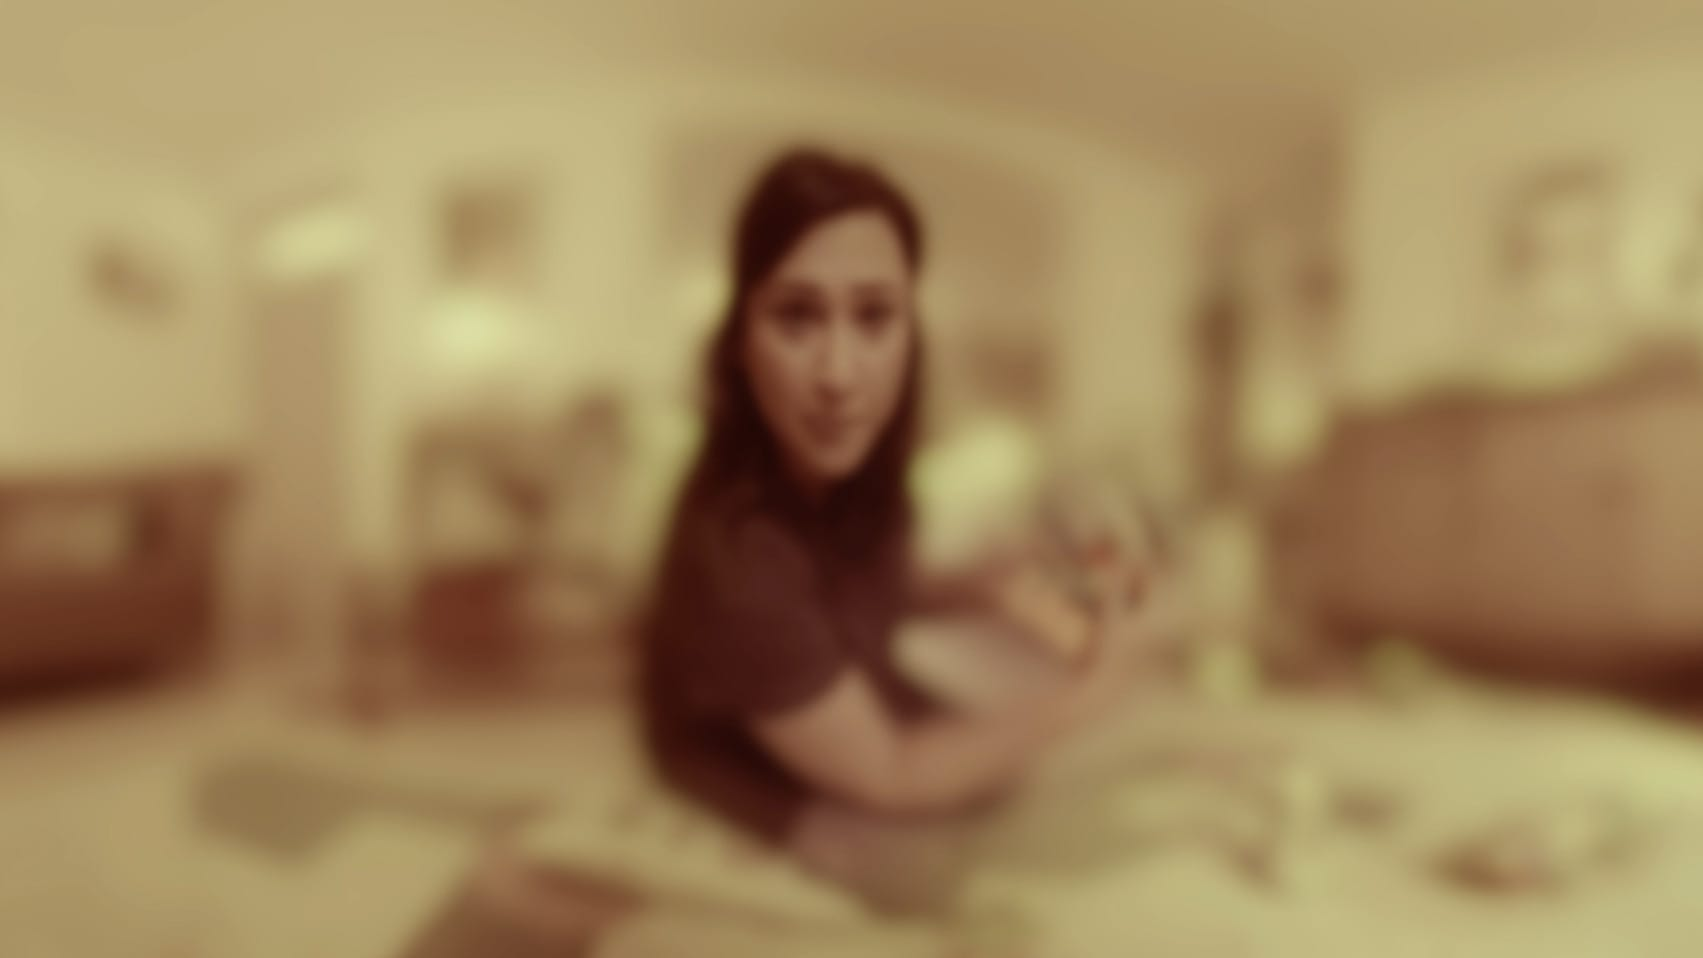
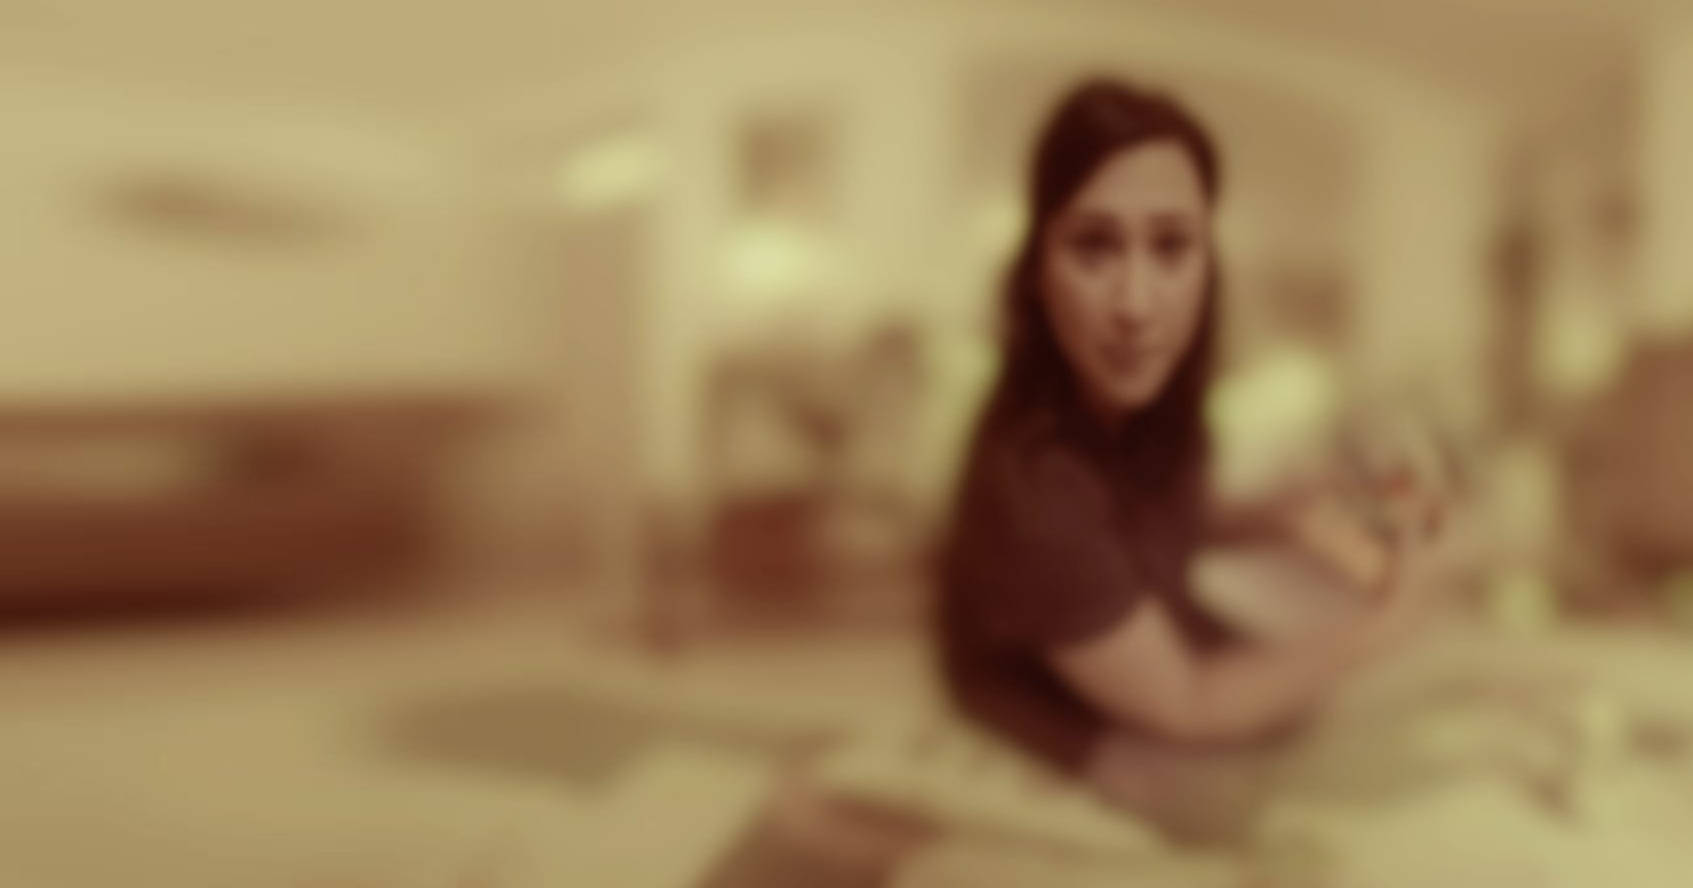
updated images

diff --git a/src/templates/main.html b/src/templates/main.html
@@ -69,6 +69,15 @@
         </div>
     </div>
 
+        <div class="gvr-lightbox__container">
+        <div class="gvr-lightbox__video">
+            <div class="gvr-video__container">
+                <iframe allowfullscreen="1" frameborder="0"></iframe>
+            </div>
+            <div class="gvr-lightbox__close"></div>
+        </div>
+    </div>
+
 </div>
 
 
@@ -84,7 +93,7 @@
                 After years of record temperatures, the Arctic is melting. The Northwest passage had an ice-free summer in 2016, allowing cruise ships into one of the world’s most remote places. Join our environmentally friendly Arctic tour, and witness the consequences of human behaviour.
             </p>
             
-            <button class="gvr-vr__trailerbtn" data-url="www.theguardian.com/environment/ng-interactive/2016/dec/22/arctic-360-take-a-tour-without-doing-damage">Watch online</button>
+            <button class="gvr-vr__trailerbtn" data-video="https://www.youtube.com/embed/ncEj8rZaQs8?autoplay=1&controls=1&modestbranding=1&enablejsapi=1&color=white&showinfo=0&theme=dark&autohide=1&rel=0&iv_load_policy=3&widgetid=1">Watch online</button>
 
             <div class="gvr-vr__extras">
                 <div class="gvr-vr__extras__left">
@@ -108,6 +117,79 @@
                     </ul>
                 </div>
             </div>
+        </div>
+    </div>
+
+
+            <div class="gvr-lightbox__container">
+        <div class="gvr-lightbox__video">
+            <div class="gvr-video__container">
+                <iframe allowfullscreen="1" frameborder="0"></iframe>
+            </div>
+            <div class="gvr-lightbox__close"></div>
+        </div>
+    </div>
+
+</div>
+
+
+
+<div class="gvr-strip gvr-strip--project gvr-strip--6x9" id="goto-6x9">
+    <div class="gvr-content gvr-vr">
+        <div class="gvr-project--container">
+            <h2 class="gvr-vr__title">6&times;9</h2>
+            <h3 class="gvr-vr__subtitle">
+                A virtual experience of solitary confinement
+            </h3>
+            <button class="gvr-vr__expandbtn">Explore</button>
+            <p class="gvr-vr__description">
+                More than 80,000 people are in solitary confinement in the US. They spend 22 to 24 hours a day in their cells, with little to no human contact for days - or even decades. We invite you into this world to hear the stories and experience the psychological damage that can happen during extreme isolation.
+            </p>
+            <button class="gvr-vr__trailerbtn" data-video="https://www.youtube.com/embed/hwbJLlbeAS0?autoplay=1&controls=1&modestbranding=1&enablejsapi=1&color=white&showinfo=0&theme=dark&autohide=1&rel=0&iv_load_policy=3&widgetid=1">Video trailer</button>
+            <div class="gvr-vr__extras">
+                <div class="gvr-vr__extras__left">
+                    <h2>Further material</h2>
+                    <ul class="gvr-reading">
+                        <li class="gvr-reading__item">
+                            <a href="https://www.theguardian.com/world/ng-interactive/2016/apr/27/you-start-seeing-figures-in-the-paint-chips-recollections-of-life-in-solitary-confinement">Six men and one woman share their experiences of solitary confinement</a>
+                        </li>
+                        <li class="gvr-reading__item">
+                            <a href="https://www.theguardian.com/world/2016/apr/27/what-is-solitary-confinement">Solitary confinement: the facts</a>
+                        </li>
+                        <li class="gvr-reading__item">
+                            <a href="https://www.theguardian.com/world/audio/2016/apr/27/solitary-confinement-in-the-us-audio-documentary">Podcast: 6x9 - a story of solitary confinement by Gary Younge</a>
+                        </li>
+                        <li class="gvr-reading__item">
+                            <a href="https://www.theguardian.com/world/2016/apr/29/albert-woodfox-43-years-solitary-confinement-wish-i-was-back">43 years in solitary: 'There are moments I wish I was back there’</a>
+                        </li>
+                        <li class="gvr-reading__item">
+                            <a href="https://www.theguardian.com/us-news/audio/2016/apr/28/solitary-confinement-6x9-the-psychologists-the-story-podcast">Podcast: Psychologists discuss solitary confinement</a>
+                        </li>
+                        <li class="gvr-reading__item">
+                            <a href="https://www.theguardian.com/commentisfree/video/2016/may/04/i-was-alone-in-a-room-for-three-years-solitary-confinement-is-torture-video">Video: I was alone in a room for three years. Solitary confinement is torture</a>
+                        </li>
+                    </ul>
+                </div>
+                <div class="gvr-vr__extras__right">
+                    <h2>Download the app</h2>
+                    <ul class="gvr-reading">
+                        <li class="gvr-reading__item">
+                            <a href="https://play.google.com/store/apps/details?id=com.guardian.gvr">Download for Daydream</a>
+                        </li>
+                        <li class="gvr-reading__item">
+                            <a href="https://www.theguardian.com/world/ng-interactive/2016/apr/27/6x9-a-virtual-experience-of-solitary-confinement">Download for iOS, Android or Gear VR</a>
+                        </li>
+                    </ul>
+                </div>
+            </div>
+        </div>
+    </div>
+    <div class="gvr-lightbox__container">
+        <div class="gvr-lightbox__video">
+            <div class="gvr-video__container">
+                <iframe allowfullscreen="1" frameborder="0"></iframe>
+            </div>
+            <div class="gvr-lightbox__close"></div>
         </div>
     </div>
 </div>
@@ -170,65 +252,9 @@
 </div>
 
 
-<div class="gvr-strip gvr-strip--project gvr-strip--6x9" id="goto-6x9">
-    <div class="gvr-content gvr-vr">
-        <div class="gvr-project--container">
-            <h2 class="gvr-vr__title">6&times;9</h2>
-            <h3 class="gvr-vr__subtitle">
-                A virtual experience of solitary confinement
-            </h3>
-            <button class="gvr-vr__expandbtn">Explore</button>
-            <p class="gvr-vr__description">
-                More than 80,000 people are in solitary confinement in the US. They spend 22 to 24 hours a day in their cells, with little to no human contact for days - or even decades. We invite you into this world to hear the stories and experience the psychological damage that can happen during extreme isolation.
-            </p>
-            <button class="gvr-vr__trailerbtn" data-video="https://www.youtube.com/embed/hwbJLlbeAS0?autoplay=1&controls=1&modestbranding=1&enablejsapi=1&color=white&showinfo=0&theme=dark&autohide=1&rel=0&iv_load_policy=3&widgetid=1">Video trailer</button>
-            <div class="gvr-vr__extras">
-                <div class="gvr-vr__extras__left">
-                    <h2>Further material</h2>
-                    <ul class="gvr-reading">
-                        <li class="gvr-reading__item">
-                            <a href="https://www.theguardian.com/world/ng-interactive/2016/apr/27/you-start-seeing-figures-in-the-paint-chips-recollections-of-life-in-solitary-confinement">Six men and one woman share their experiences of solitary confinement</a>
-                        </li>
-                        <li class="gvr-reading__item">
-                            <a href="https://www.theguardian.com/world/2016/apr/27/what-is-solitary-confinement">Solitary confinement: the facts</a>
-                        </li>
-                        <li class="gvr-reading__item">
-                            <a href="https://www.theguardian.com/world/audio/2016/apr/27/solitary-confinement-in-the-us-audio-documentary">Podcast: 6x9 - a story of solitary confinement by Gary Younge</a>
-                        </li>
-                        <li class="gvr-reading__item">
-                            <a href="https://www.theguardian.com/world/2016/apr/29/albert-woodfox-43-years-solitary-confinement-wish-i-was-back">43 years in solitary: 'There are moments I wish I was back there’</a>
-                        </li>
-                        <li class="gvr-reading__item">
-                            <a href="https://www.theguardian.com/us-news/audio/2016/apr/28/solitary-confinement-6x9-the-psychologists-the-story-podcast">Podcast: Psychologists discuss solitary confinement</a>
-                        </li>
-                        <li class="gvr-reading__item">
-                            <a href="https://www.theguardian.com/commentisfree/video/2016/may/04/i-was-alone-in-a-room-for-three-years-solitary-confinement-is-torture-video">Video: I was alone in a room for three years. Solitary confinement is torture</a>
-                        </li>
-                    </ul>
-                </div>
-                <div class="gvr-vr__extras__right">
-                    <h2>Download the app</h2>
-                    <ul class="gvr-reading">
-                        <li class="gvr-reading__item">
-                            <a href="https://play.google.com/store/apps/details?id=com.guardian.gvr">Download for Daydream</a>
-                        </li>
-                        <li class="gvr-reading__item">
-                            <a href="https://www.theguardian.com/world/ng-interactive/2016/apr/27/6x9-a-virtual-experience-of-solitary-confinement">Download for iOS, Android or Gear VR</a>
-                        </li>
-                    </ul>
-                </div>
-            </div>
-        </div>
-    </div>
-    <div class="gvr-lightbox__container">
-        <div class="gvr-lightbox__video">
-            <div class="gvr-video__container">
-                <iframe allowfullscreen="1" frameborder="0"></iframe>
-            </div>
-            <div class="gvr-lightbox__close"></div>
-        </div>
-    </div>
-</div>
+
+
+
 <div class="gvr-strip gvr-strip--about">
     <div class="gvr-content gvr-about">
         <h2>The Guardian and VR</h2>

diff --git a/src/css/main.scss b/src/css/main.scss
@@ -244,7 +244,7 @@ h2 {
     &.gvr-strip--arctic {
         color: white;
         background-color: #333;
-        background-image: url('<%= path %>/assets/arctic_01.jpg');
+        background-image: url('<%= path %>/assets/arctic_03.jpg');
         background-size: cover;
         background-position: top center;
         position: relative;
